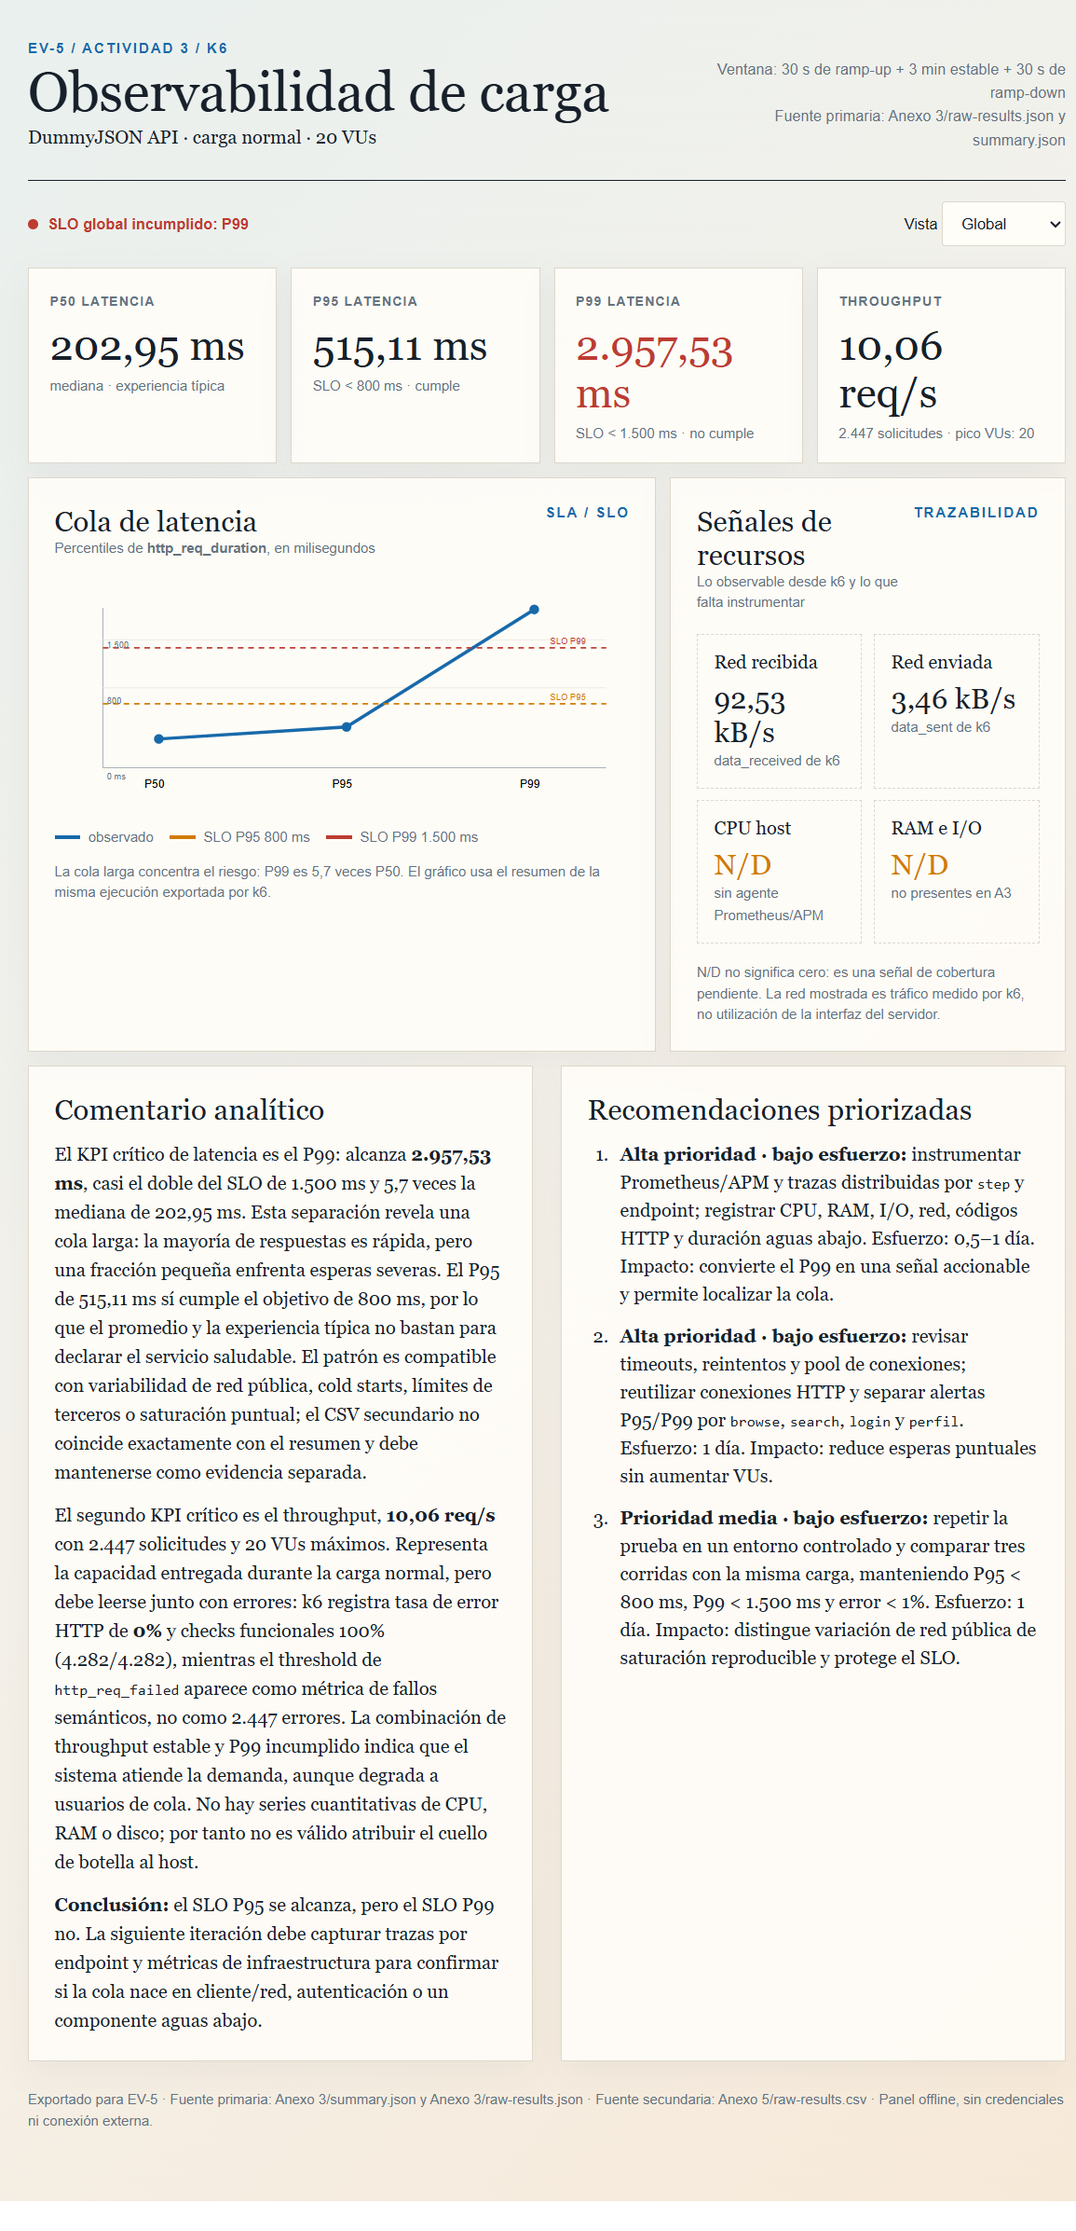
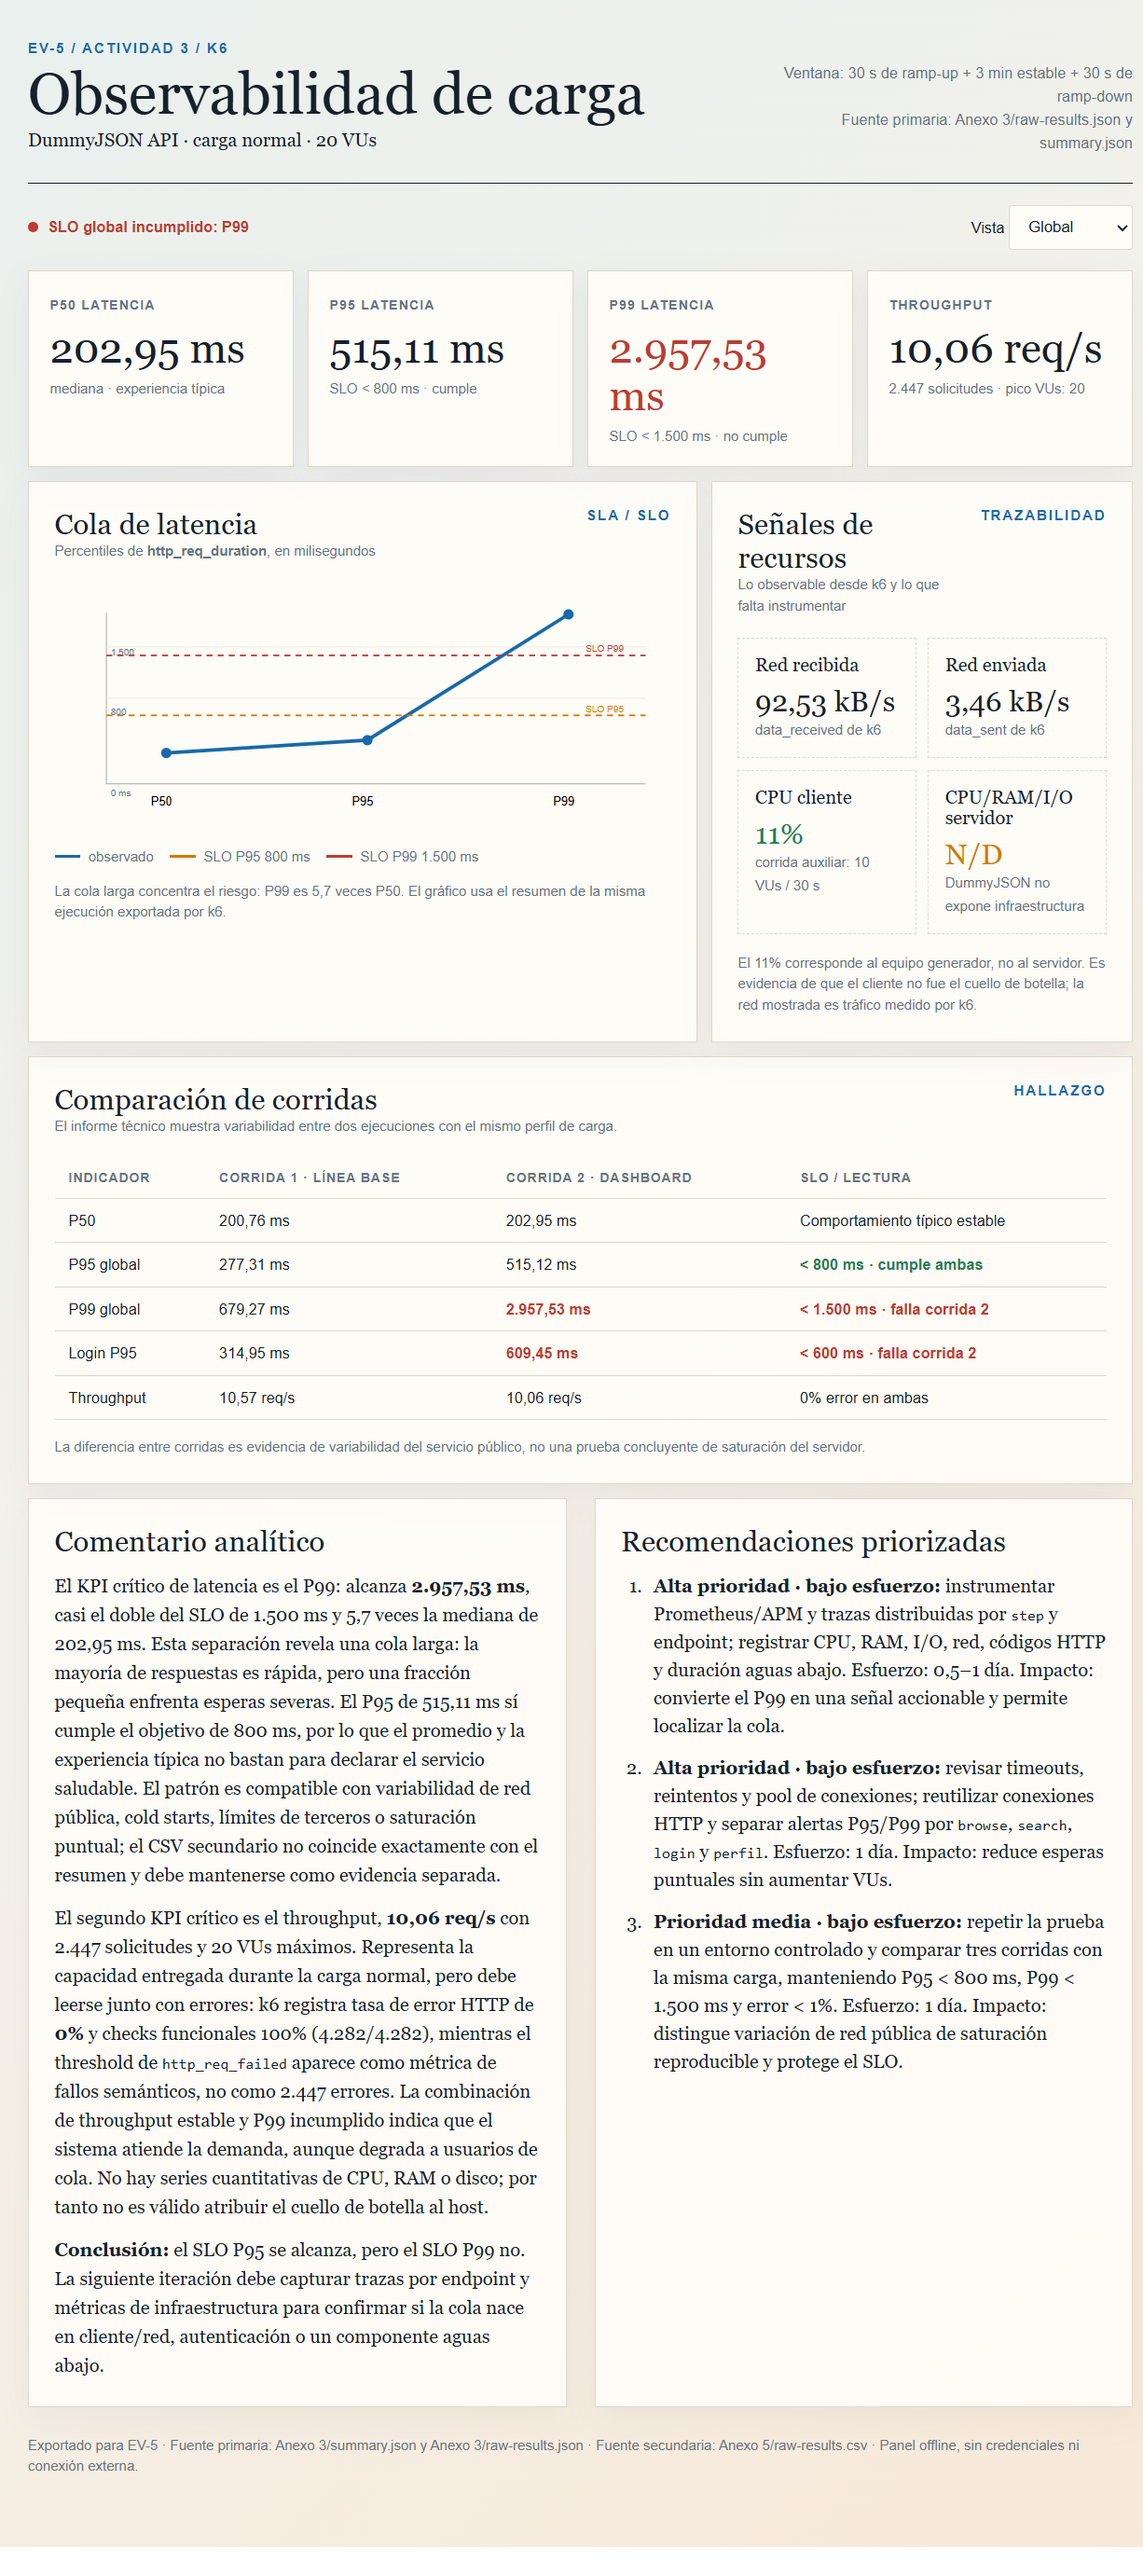
Incorporar hallazgos comparativos del informe tecnico

diff --git a/Anexo 4/reporte-dashboard.html b/Anexo 4/reporte-dashboard.html
@@ -40,6 +40,11 @@
     .resource strong { display:block; margin-top:8px; font-size:25px; font-weight:500; }
     .analysis { margin-top:12px; display:grid; grid-template-columns:1fr 1fr; gap:24px; }
     .analysis ol { margin:12px 0 0 22px; padding:0; } .analysis li { padding:0 0 12px 6px; line-height:1.5; }
+    .comparison { margin-top:12px; overflow-x:auto; }
+    .comparison table { width:100%; border-collapse:collapse; font:13px Arial,sans-serif; }
+    .comparison th,.comparison td { border-bottom:1px solid var(--line); padding:11px 12px; text-align:left; }
+    .comparison th { color:var(--muted); font-size:11px; letter-spacing:.08em; text-transform:uppercase; }
+    .comparison .fail { color:var(--red); font-weight:700; } .comparison .pass { color:var(--green); font-weight:700; }
     footer { margin-top:24px; color:var(--muted); font:12px/1.5 Arial,sans-serif; }
     @media (max-width:800px) { main{padding:24px 15px 40px} header,.toolbar{display:block} .meta{text-align:left;margin-top:18px} .kpis{grid-template-columns:repeat(2,1fr)} .grid,.analysis{grid-template-columns:1fr} .toolbar>*{margin-top:12px} }
     @media (max-width:430px) { .kpis{grid-template-columns:1fr} .kpi{min-height:auto} }
@@ -64,10 +69,11 @@
       <div class="legend"><span>observado</span><span class="p95">SLO P95 800 ms</span><span class="p99">SLO P99 1.500 ms</span></div><p class="note" style="margin-top:14px">La cola larga concentra el riesgo: P99 es 5,7 veces P50. El gráfico usa el resumen de la misma ejecución exportada por k6.</p>
     </article>
     <article class="panel"><div class="panel-head"><div><h2>Señales de recursos</h2><p>Lo observable desde k6 y lo que falta instrumentar</p></div><span class="eyebrow">Trazabilidad</span></div>
-      <div class="resource-grid"><div class="resource"><span class="label">Red recibida</span><strong>92,53 kB/s</strong><small class="note">data_received de k6</small></div><div class="resource"><span class="label">Red enviada</span><strong>3,46 kB/s</strong><small class="note">data_sent de k6</small></div><div class="resource"><span class="label">CPU host</span><strong class="warn">N/D</strong><small class="note">sin agente Prometheus/APM</small></div><div class="resource"><span class="label">RAM e I/O</span><strong class="warn">N/D</strong><small class="note">no presentes en A3</small></div></div>
-      <p class="note" style="margin-top:16px">N/D no significa cero: es una señal de cobertura pendiente. La red mostrada es tráfico medido por k6, no utilización de la interfaz del servidor.</p>
+      <div class="resource-grid"><div class="resource"><span class="label">Red recibida</span><strong>92,53 kB/s</strong><small class="note">data_received de k6</small></div><div class="resource"><span class="label">Red enviada</span><strong>3,46 kB/s</strong><small class="note">data_sent de k6</small></div><div class="resource"><span class="label">CPU cliente</span><strong class="good">11%</strong><small class="note">corrida auxiliar: 10 VUs / 30 s</small></div><div class="resource"><span class="label">CPU/RAM/I/O servidor</span><strong class="warn">N/D</strong><small class="note">DummyJSON no expone infraestructura</small></div></div>
+      <p class="note" style="margin-top:16px">El 11% corresponde al equipo generador, no al servidor. Es evidencia de que el cliente no fue el cuello de botella; la red mostrada es tráfico medido por k6.</p>
     </article>
   </section>
+  <section class="panel comparison"><div class="panel-head"><div><h2>Comparación de corridas</h2><p>El informe técnico muestra variabilidad entre dos ejecuciones con el mismo perfil de carga.</p></div><span class="eyebrow">Hallazgo</span></div><table><thead><tr><th>Indicador</th><th>Corrida 1 · línea base</th><th>Corrida 2 · dashboard</th><th>SLO / lectura</th></tr></thead><tbody><tr><td>P50</td><td>200,76 ms</td><td>202,95 ms</td><td>Comportamiento típico estable</td></tr><tr><td>P95 global</td><td>277,31 ms</td><td>515,12 ms</td><td class="pass">&lt; 800 ms · cumple ambas</td></tr><tr><td>P99 global</td><td>679,27 ms</td><td class="fail">2.957,53 ms</td><td class="fail">&lt; 1.500 ms · falla corrida 2</td></tr><tr><td>Login P95</td><td>314,95 ms</td><td class="fail">609,45 ms</td><td class="fail">&lt; 600 ms · falla corrida 2</td></tr><tr><td>Throughput</td><td>10,57 req/s</td><td>10,06 req/s</td><td>0% error en ambas</td></tr></tbody></table><p class="note" style="margin-top:14px">La diferencia entre corridas es evidencia de variabilidad del servicio público, no una prueba concluyente de saturación del servidor.</p></section>
   <section class="analysis">
     <article class="panel"><h2>Comentario analítico</h2><p style="margin-top:12px">El KPI crítico de latencia es el P99: alcanza <b>2.957,53 ms</b>, casi el doble del SLO de 1.500 ms y 5,7 veces la mediana de 202,95 ms. Esta separación revela una cola larga: la mayoría de respuestas es rápida, pero una fracción pequeña enfrenta esperas severas. El P95 de 515,11 ms sí cumple el objetivo de 800 ms, por lo que el promedio y la experiencia típica no bastan para declarar el servicio saludable. El patrón es compatible con variabilidad de red pública, cold starts, límites de terceros o saturación puntual; el CSV secundario no coincide exactamente con el resumen y debe mantenerse como evidencia separada.</p><p style="margin-top:12px">El segundo KPI crítico es el throughput, <b>10,06 req/s</b> con 2.447 solicitudes y 20 VUs máximos. Representa la capacidad entregada durante la carga normal, pero debe leerse junto con errores: k6 registra tasa de error HTTP de <b>0%</b> y checks funcionales 100% (4.282/4.282), mientras el threshold de <code>http_req_failed</code> aparece como métrica de fallos semánticos, no como 2.447 errores. La combinación de throughput estable y P99 incumplido indica que el sistema atiende la demanda, aunque degrada a usuarios de cola. No hay series cuantitativas de CPU, RAM o disco; por tanto no es válido atribuir el cuello de botella al host.</p><p style="margin-top:12px"><b>Conclusión:</b> el SLO P95 se alcanza, pero el SLO P99 no. La siguiente iteración debe capturar trazas por endpoint y métricas de infraestructura para confirmar si la cola nace en cliente/red, autenticación o un componente aguas abajo.</p></article>
     <article class="panel"><h2>Recomendaciones priorizadas</h2><ol><li><b>Alta prioridad · bajo esfuerzo:</b> instrumentar Prometheus/APM y trazas distribuidas por <code>step</code> y endpoint; registrar CPU, RAM, I/O, red, códigos HTTP y duración aguas abajo. Esfuerzo: 0,5–1 día. Impacto: convierte el P99 en una señal accionable y permite localizar la cola.</li><li><b>Alta prioridad · bajo esfuerzo:</b> revisar timeouts, reintentos y pool de conexiones; reutilizar conexiones HTTP y separar alertas P95/P99 por <code>browse</code>, <code>search</code>, <code>login</code> y <code>perfil</code>. Esfuerzo: 1 día. Impacto: reduce esperas puntuales sin aumentar VUs.</li><li><b>Prioridad media · bajo esfuerzo:</b> repetir la prueba en un entorno controlado y comparar tres corridas con la misma carga, manteniendo P95 &lt; 800 ms, P99 &lt; 1.500 ms y error &lt; 1%. Esfuerzo: 1 día. Impacto: distingue variación de red pública de saturación reproducible y protege el SLO.</li></ol></article>

diff --git a/Anexo 6/comentario-analitico.md b/Anexo 6/comentario-analitico.md
@@ -1,17 +1,17 @@
 # Comentario analítico
 
-La ejecución de carga normal sobre DummyJSON alcanzó 20 VUs y produjo 2.447 solicitudes a un throughput de 10,06 req/s. La lectura debe hacerse contra los SLO definidos en la configuración: P95 global menor que 800 ms, P99 menor que 1.500 ms y tasa de error HTTP menor que 1%.
+El informe técnico documenta dos corridas de carga normal sobre DummyJSON con el mismo perfil de 20 VUs. La corrida 1 produjo 2.568 solicitudes a 10,57 req/s; la corrida 2, usada para el dashboard, produjo 2.447 solicitudes a 10,06 req/s. La lectura debe hacerse contra los SLO definidos: P95 global menor que 800 ms, P99 menor que 1.500 ms y tasa de error HTTP menor que 1%.
 
-El primer KPI crítico es la **latencia P99**, que llegó a 2.957,53 ms. El valor incumple el SLO por 1.457,53 ms y es 5,7 veces la mediana (P50: 202,95 ms). Esto describe una cola larga: la respuesta típica es rápida, pero una fracción pequeña de usuarios espera varios segundos. El P95 fue 515,11 ms y sí cumplió, por lo que el promedio y la experiencia de la mayoría no bastan para declarar saludable el servicio. Este patrón puede relacionarse con variabilidad de red pública, límites de una API de terceros, cold starts o esperas aguas abajo. No permite afirmar saturación de CPU sin mediciones del host. El panel incluye el P99 precisamente para visibilizar el riesgo que un promedio ocultaría.
+El primer KPI crítico es la **latencia P99**. En la línea base fue 679,27 ms y en la corrida 2 subió a 2.957,53 ms, incumpliendo el SLO por 1.457,53 ms. La mediana permaneció estable (200,76 ms frente a 202,95 ms), mientras que la cola se multiplicó más de cuatro veces. Esto indica que la experiencia típica es estable, pero una fracción pequeña de usuarios espera varios segundos. El P95 de la corrida 2 fue 515,11 ms y sí cumplió el objetivo de 800 ms, por lo que el promedio y la experiencia de la mayoría no bastan para declarar saludable el servicio. La variación puede relacionarse con red pública, infraestructura compartida, límites de terceros o esperas aguas abajo.
 
-El segundo KPI crítico es el **throughput**, con 10,06 req/s durante la carga. Es una medida de capacidad entregada: el sistema atendió la demanda del escenario y llegó al máximo de 20 VUs. Debe interpretarse junto con la calidad. La tasa de error HTTP observada es 0% y los checks funcionales pasaron 4.282 de 4.282. Por tanto, el problema principal no es una caída general ni respuestas incorrectas, sino degradación de la cola alta de latencia. La combinación de throughput sostenido, checks correctos y P99 fuera de objetivo sugiere que el servicio puede cumplir para la mayoría, pero no garantiza una experiencia consistente para el extremo de la distribución.
+El segundo KPI crítico es el **throughput**, que se mantuvo cercano a 10 req/s en ambas corridas (10,57 y 10,06 req/s), con error HTTP de 0% y checks funcionales al 100%. Es una medida de capacidad entregada: el sistema atendió la demanda y llegó al máximo de 20 VUs. Sin embargo, debe leerse junto con la latencia. El problema principal no es una caída general ni respuestas incorrectas, sino degradación de la cola alta. Además, el paso de login fue el único que rompió su umbral propio: su P95 pasó de 314,95 ms a 609,45 ms frente al límite de 600 ms. Esto convierte a autenticación en el primer punto a investigar.
 
-La evidencia de sistema tiene una limitación: k6 aporta `data_received` (92,53 kB/s) y `data_sent` (3,46 kB/s), pero no aporta series cuantitativas de CPU, RAM o I/O del servidor. Esas señales se muestran como no instrumentadas y no como cero. Además, el CSV secundario no coincide exactamente con el resumen oficial: contiene 2.576 muestras de solicitudes y produce percentiles distintos. Por trazabilidad, el dashboard usa `summary.json` y `raw-results.json` como fuente primaria y conserva el CSV separado.
+La evidencia de sistema tiene una limitación: no hay CPU, RAM o I/O del servidor porque DummyJSON es un tercero. El informe sí registra CPU del equipo cliente en 11% durante una corrida auxiliar de 10 VUs y 30 s; ese dato indica que el generador no fue el cuello de botella, pero no representa al SUT. k6 aporta además `data_received` (92,53 kB/s) y `data_sent` (3,46 kB/s). El CSV conserva evidencia secundaria de otra exportación y no debe mezclarse con los percentiles de la corrida 2.
 
 ## Recomendaciones priorizadas
 
-1. **Alta, bajo esfuerzo:** incorporar Prometheus/APM y trazas distribuidas por endpoint y `step`, con CPU, RAM, I/O, red, códigos HTTP y tiempos aguas abajo. Estimación: 0,5–1 día. Es la acción de mayor impacto porque permite localizar la causa del P99.
-2. **Alta, bajo esfuerzo:** revisar timeouts, reintentos y reutilización del pool de conexiones; separar alertas P95/P99 para `browse`, `search`, `login` y `perfil`. Estimación: 1 día. Puede reducir esperas puntuales sin aumentar la carga.
-3. **Media, bajo esfuerzo:** repetir tres veces la prueba en un entorno controlado y comparar los mismos SLO. Estimación: 1 día. Permitirá distinguir variación de red pública de saturación reproducible y validar la mejora.
+1. **Alta, bajo esfuerzo:** investigar `POST /auth/login` con una prueba aislada y trazas/APM, incluyendo tiempos de generación de token y dependencias. Estimación: 0,5–1 día. Es el único paso que incumplió su SLO propio.
+2. **Alta, bajo esfuerzo:** ejecutar 5–10 repeticiones en distintos horarios y comparar P95/P99. Estimación: 1 día. Permitirá distinguir variación aleatoria de un patrón reproducible antes de cambiar infraestructura.
+3. **Media, bajo esfuerzo:** instrumentar Prometheus/APM y revisar timeouts, reintentos con backoff y pool de conexiones; después escalar gradualmente a 30, 50 y 80 VUs. Estimación: 1–2 días. Permitirá localizar la cola y comprobar si depende de la concurrencia.
 
-En conclusión, el SLO P95 se cumple y el de error también, pero el P99 no. La próxima iteración debe priorizar observabilidad y reducción de la cola larga antes de elevar los VUs.
+En conclusión, el SLO P95 y el de error se cumplen en la corrida 2, pero el P99 y el login P95 no. La comparación de dos corridas demuestra que una sola ejecución no caracteriza el servicio; primero deben repetirse las mediciones y aislarse login antes de elevar los VUs.

diff --git a/README.md b/README.md
@@ -36,6 +36,8 @@ Los valores principales de la ejecución usada como fuente primaria son:
 
 El principal hallazgo es una cola larga de latencia: el P99 incumple el SLO aunque el P95 y la tasa de error cumplen.
 
+El informe técnico compara dos corridas: corrida 1 P50/P95/P99 de 200,76/277,31/679,27 ms frente a 202,95/515,12/2.957,53 ms en corrida 2. Además, `login` pasó de 314,95 ms a 609,45 ms de P95 y superó su SLO de 600 ms.
+
 ## Estructura del proyecto
 
 - `Anexo 1/`: script de prueba de carga `k6-load-test-dummyjson.js`.
@@ -73,7 +75,7 @@ k6 run -e BASE_URL=https://dummyjson.com -e VUS=20 k6-load-test-dummyjson.js
 
 La fuente primaria del dashboard es `Anexo 3/summary.json`, contrastada con `Anexo 3/raw-results.json`. El CSV se conserva como evidencia secundaria porque corresponde a una ejecución que no coincide exactamente con el resumen: registra 2.576 muestras de solicitudes frente a 2.447 en el resumen.
 
-Los datos de CPU, RAM e I/O del servidor no fueron instrumentados en la ejecución original. Por eso el dashboard los muestra como `N/D` y no como cero. Los valores de red mostrados corresponden al tráfico medido por k6 (`data_received` y `data_sent`), no a la utilización de las interfaces del servidor.
+Los datos de CPU, RAM e I/O del servidor no fueron instrumentados porque DummyJSON es un servicio de terceros. El informe aporta CPU del cliente: 11% en una corrida auxiliar de 10 VUs durante 30 s. Ese valor se incluye como evidencia del generador, no del servidor. Los valores de red mostrados corresponden al tráfico medido por k6 (`data_received` y `data_sent`), no a la utilización de las interfaces del servidor.
 
 ## Recomendaciones resumidas
 
